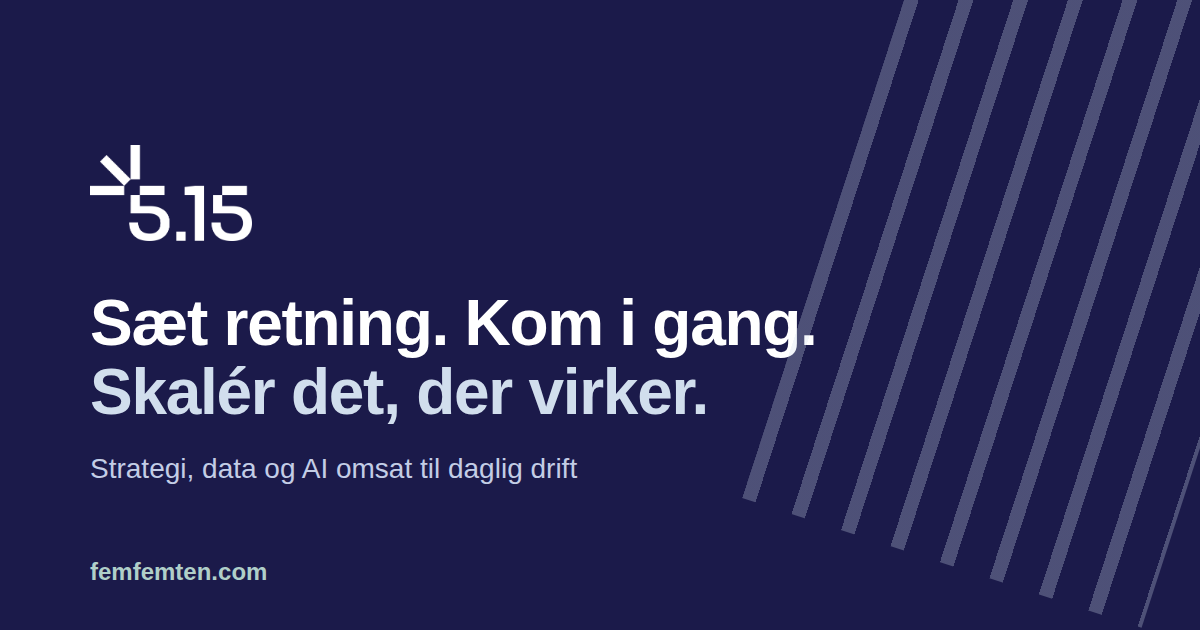
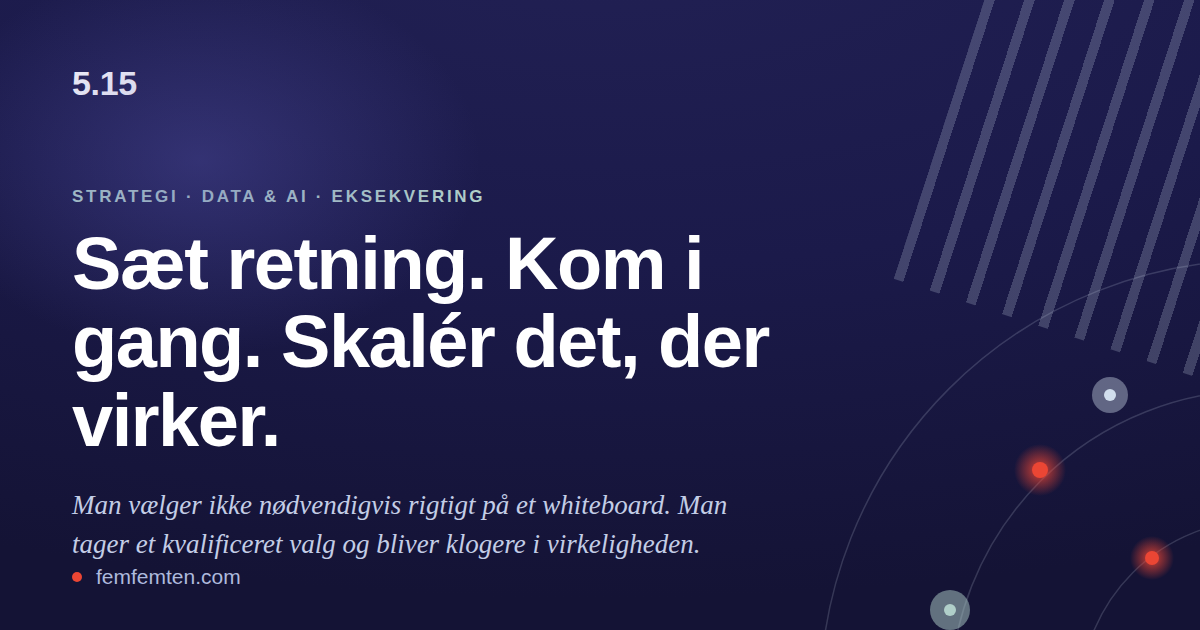
Delebilleder i brandstil til alle sider
Nye og:image-kort (1200x630) til forside, radar, test og cases, saa
delinger paa LinkedIn m.fl. viser radarens udtryk i stedet for et
generisk billede. Radar og cases peger paa egne kort.

Claude-Session: https://claude.ai/code/session_011soXH82zKuT8X3hLxygAuB

Changed region(s): [[0.0617, 0.0, 1.0, 1.0], [0.0617, 0.8444, 0.5858, 0.9349]]

diff --git a/radar.html b/radar.html
@@ -9,7 +9,7 @@
 <meta property="og:title" content="Hvor virker AI i dag?">
 <meta property="og:description" content="Ikke en komplet liste. Et kort over det, vi tør stå på mål for: hvor I kan gå i gang nu, hvor fundamentet skal bygges først, og hvor rammerne skal på plads, før noget kører selv.">
 <meta property="og:url" content="https://femfemten.com/radar.html">
-<meta property="og:image" content="https://femfemten.com/share.png">
+<meta property="og:image" content="https://femfemten.com/share-radar.png">
 <meta property="og:locale" content="da_DK">
 <meta name="twitter:card" content="summary_large_image">
 <link rel="canonical" href="https://femfemten.com/radar.html">

diff --git a/cases.html b/cases.html
@@ -9,7 +9,7 @@
 <meta property="og:title" content="Udvalgt arbejde">
 <meta property="og:description" content="Situationen, det vi byggede, og hvordan det kører. Ingen kundenavne uden aftale, og ingen tal, der ikke kan dokumenteres.">
 <meta property="og:url" content="https://femfemten.com/cases.html">
-<meta property="og:image" content="https://femfemten.com/share.png">
+<meta property="og:image" content="https://femfemten.com/share-cases.png">
 <meta property="og:locale" content="da_DK">
 <meta name="twitter:card" content="summary_large_image">
 <link rel="canonical" href="https://femfemten.com/cases.html">
